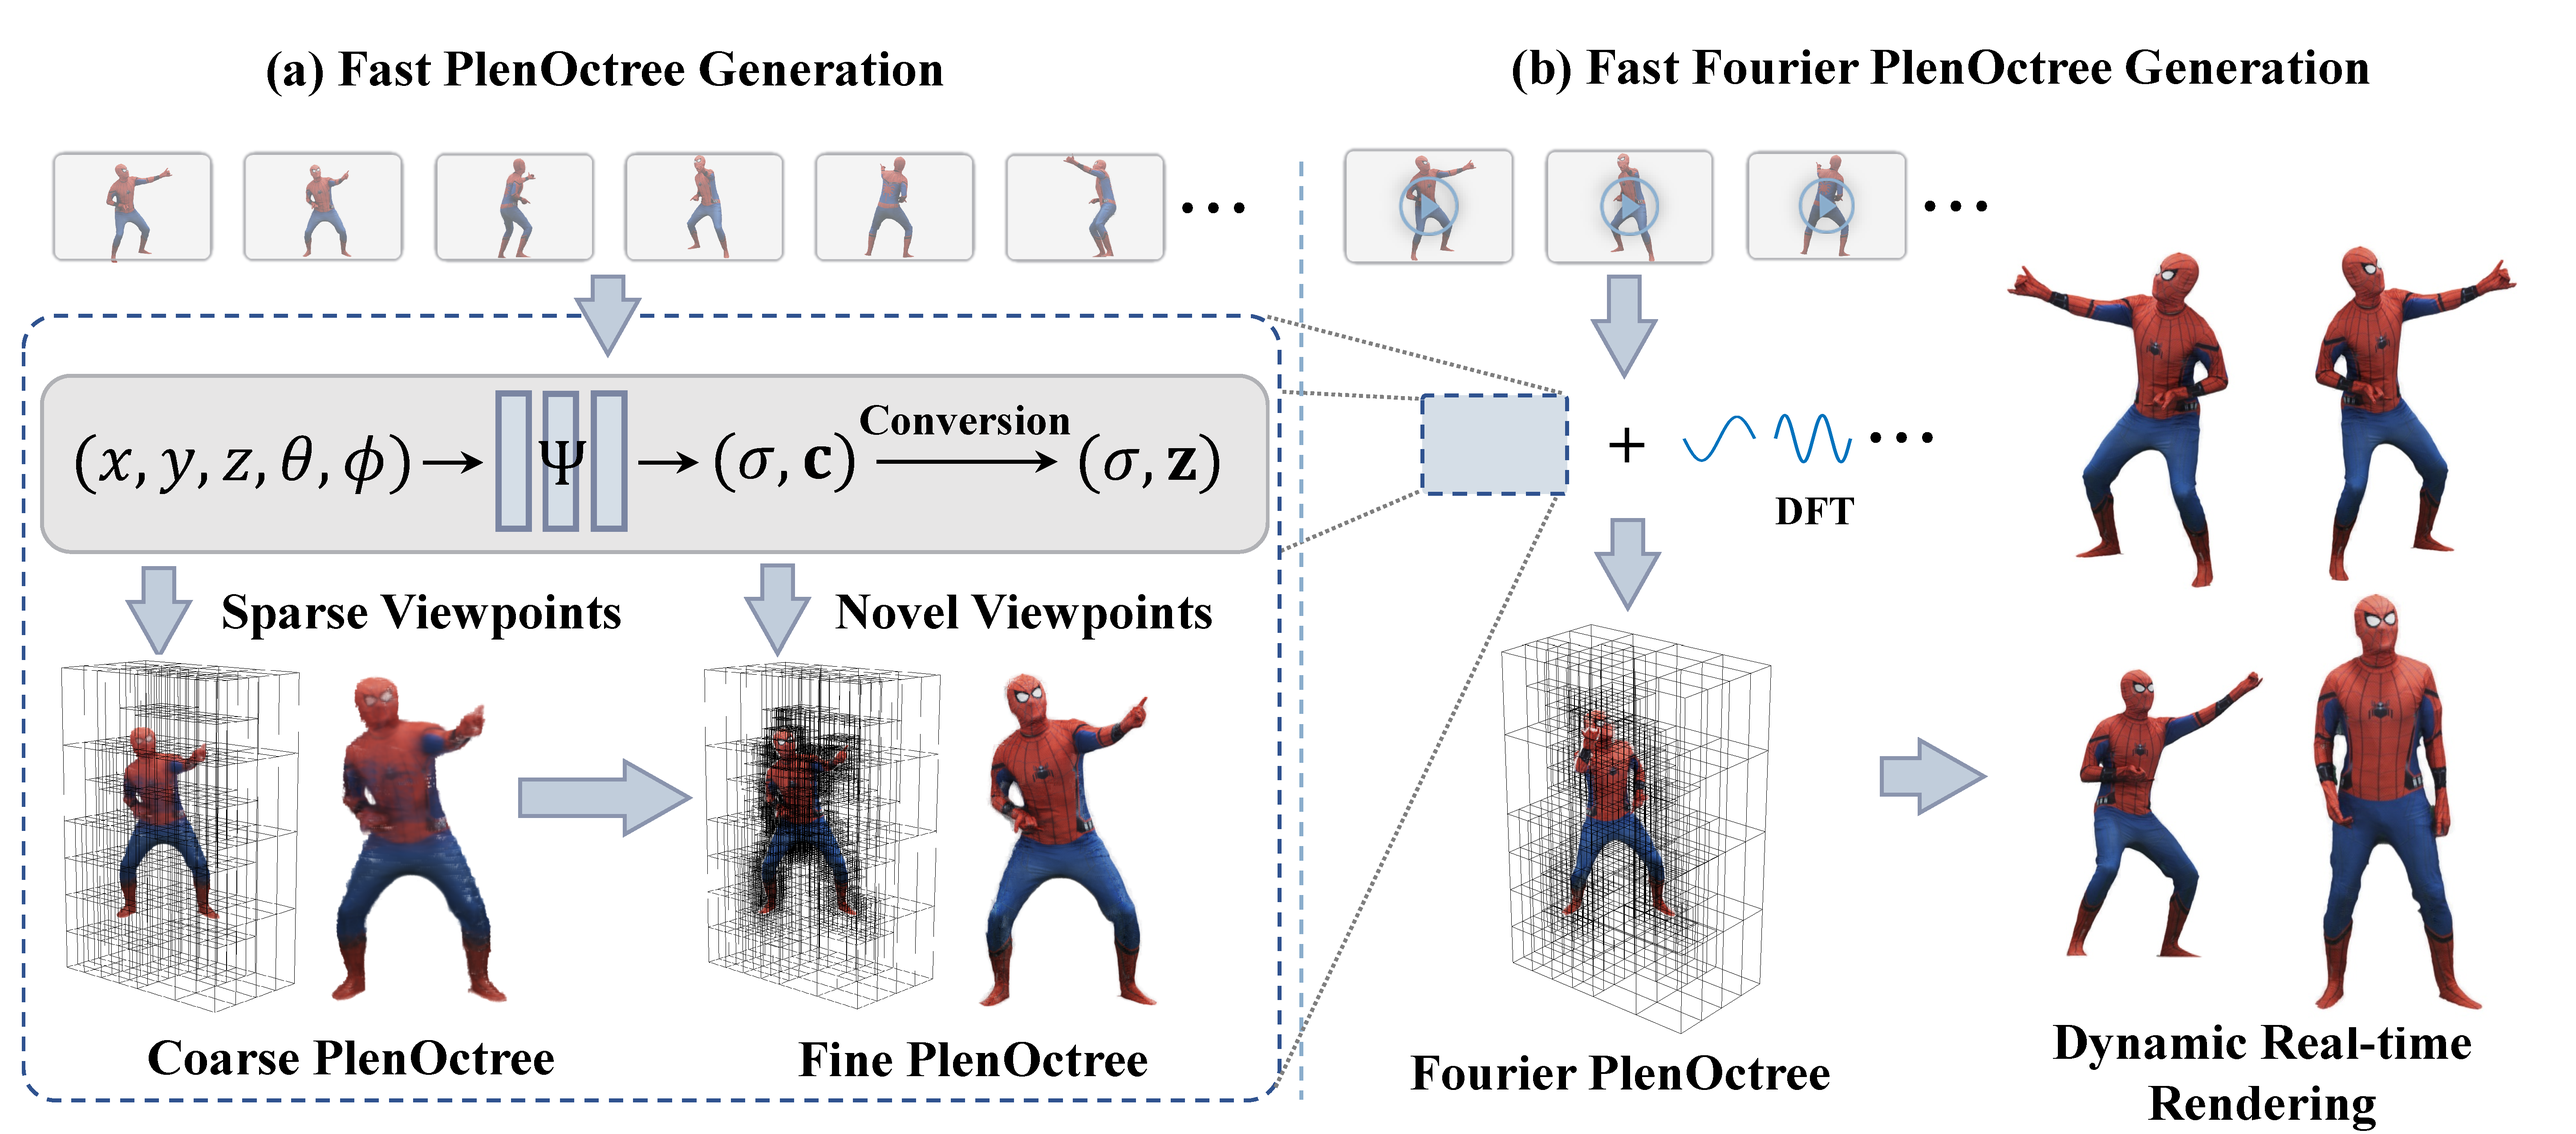
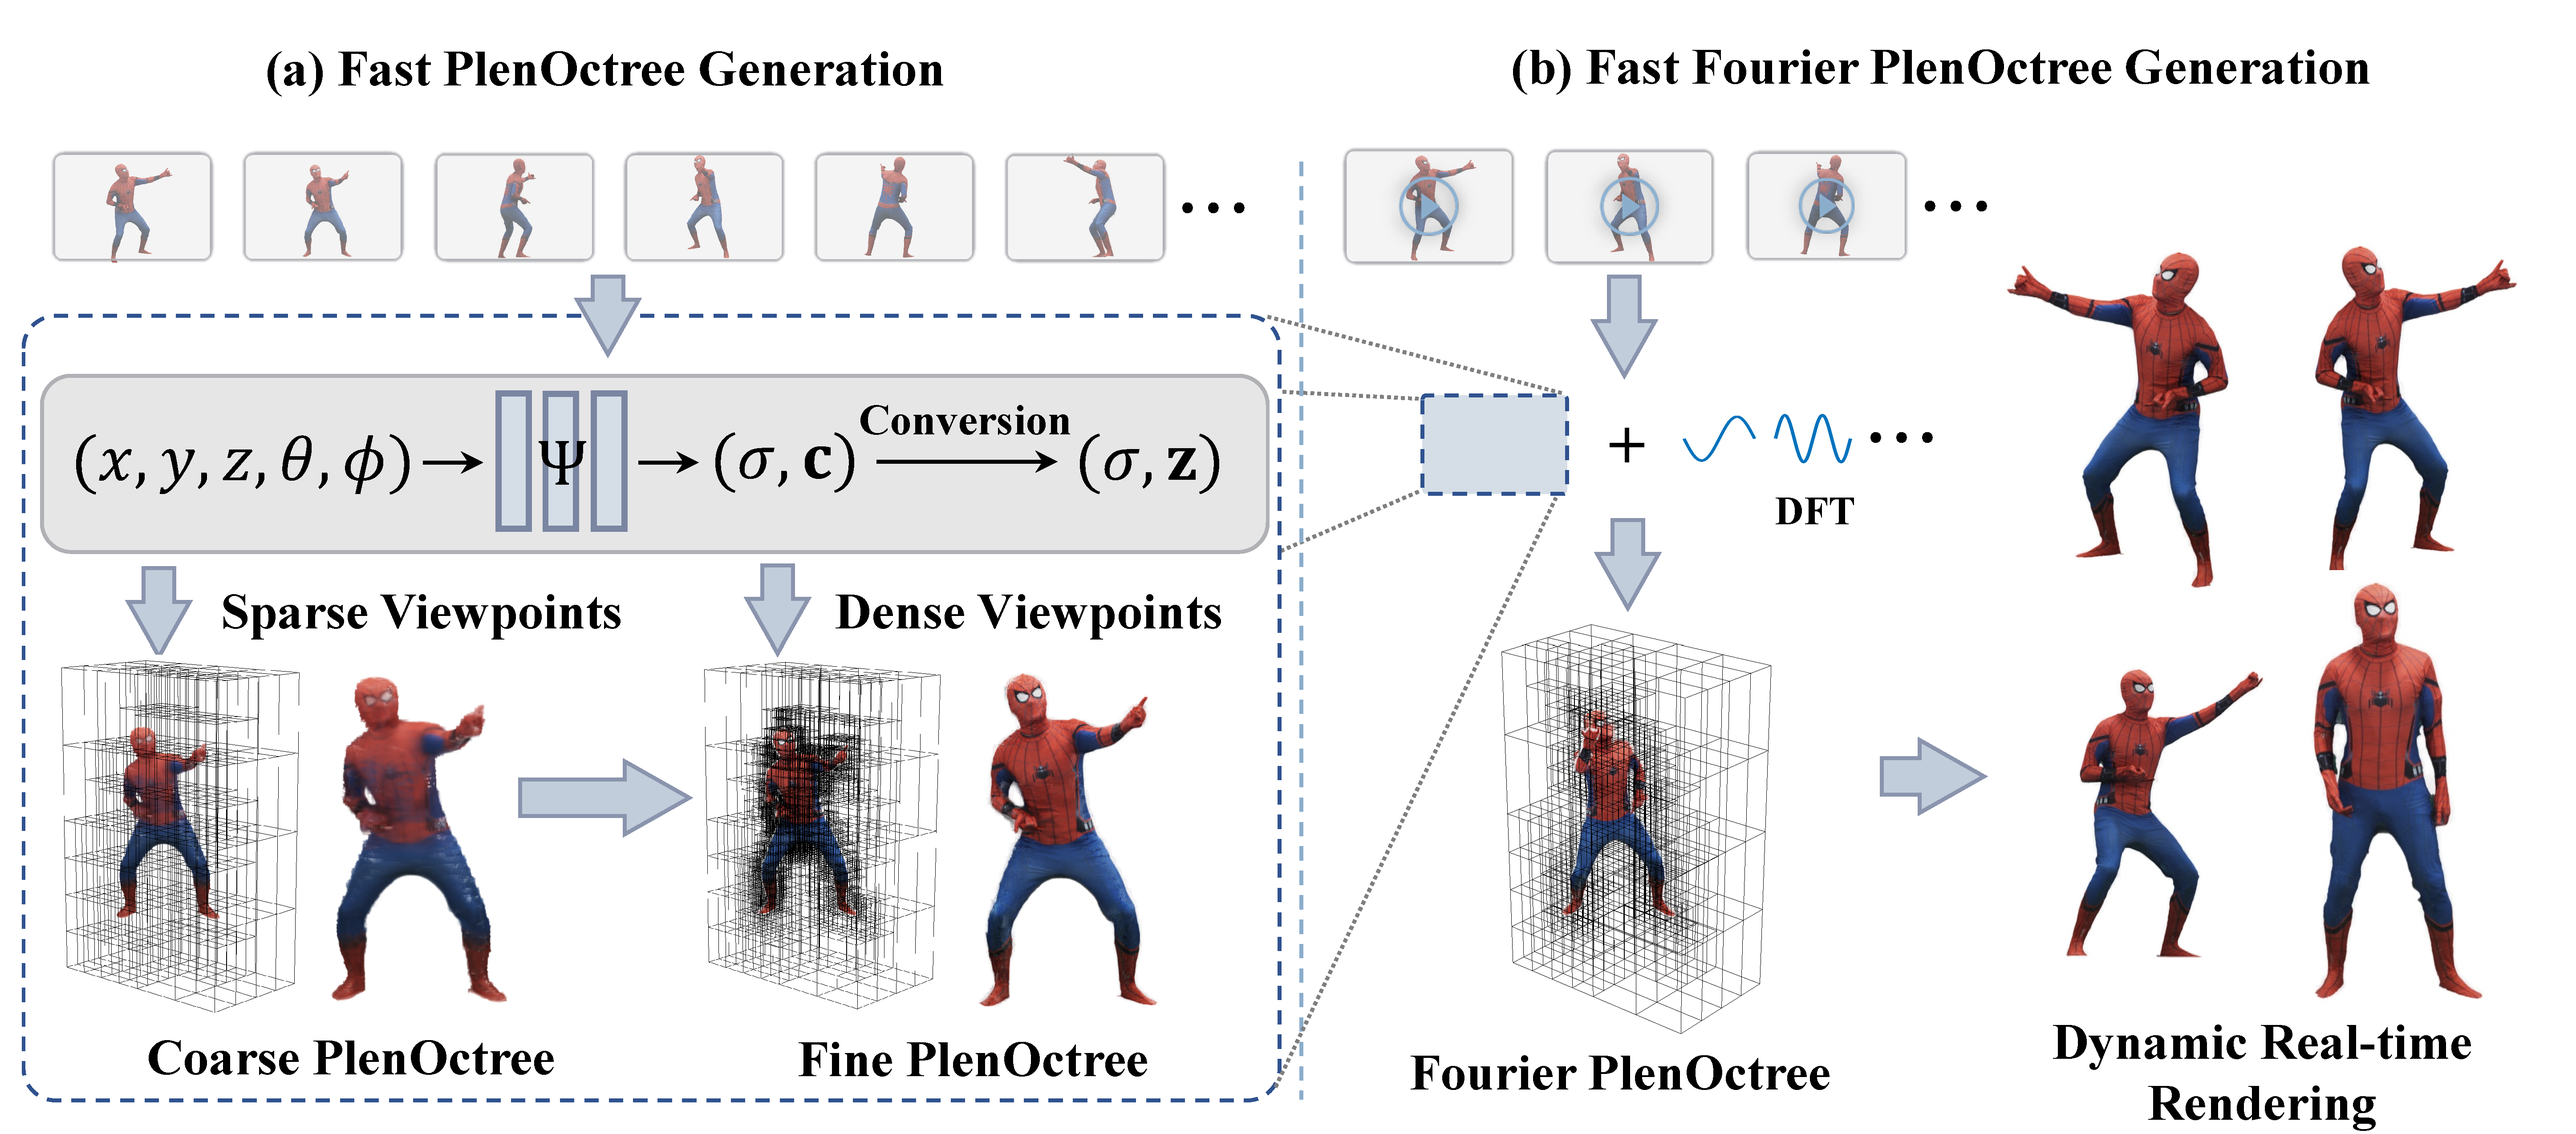
update

Changed region(s): [[0.902, 0.4961, 0.9642, 0.8991], [0.311, 0.5271, 0.4666, 0.5581]]

diff --git a/FPO/index.html b/FPO/index.html
@@ -71,7 +71,7 @@
             </div> 
             <hr>
             <p>
-                Illustration of our fast PlenOctree generation for static scene and fast Fourier PlenOctree generation for dynamic scene. (a) illustrates how to generate a PlenOctree from multiview images. Given these images, a generalized NeRF <b>&Psi;</b> predicts view-dependent density &sigma; and color <b>c</b> by inputting 3D sample point (x, y, z) with view direction (&theta;, &phi;), then we can convert them to view-independent density &sigma; and SH coefficients <b>z</b>. Using sparse view RGB images and masks rendered by <b>&Psi;</b>, we can obtain a coarse PlenOctree. Finally we fine-tune it to be a fine Plenoctree by inputting dense view images rendered by <b>&Psi;</b>. (b) extends the pipeline to dynamic scene by combining the idea with Discrete Fourier Transform(DFT) and achieves a fast Fourier PlenOctree generation and real-time rendering for dynamic scene using Fourier PlenOctree.            </p>
+                Illustration of our fast PlenOctree generation for static scene and fast Fourier PlenOctree generation for dynamic scene. (a) illustrates how to generate a PlenOctree from multiview images. Given these images, a generalized NeRF <b>&Psi;</b> predicts view-dependent density &sigma; and color <b>c</b> by inputting 3D sample point (x, y, z) with view direction (&theta;, &phi;), then we can convert them to view-independent density &sigma; and SH coefficients <b>z</b>. Using sparse view RGB images rendered by <b>&Psi;</b>, we can obtain a coarse PlenOctree. Finally we fine-tune it to be a fine Plenoctree by using dense view images. (b) extends the pipeline to dynamic scene by combining the idea with Discrete Fourier Transform(DFT) and achieves a fast Fourier PlenOctree generation and real-time rendering for dynamic scene using Fourier PlenOctree.            </p>
             </p>
         </div>
         </div>
